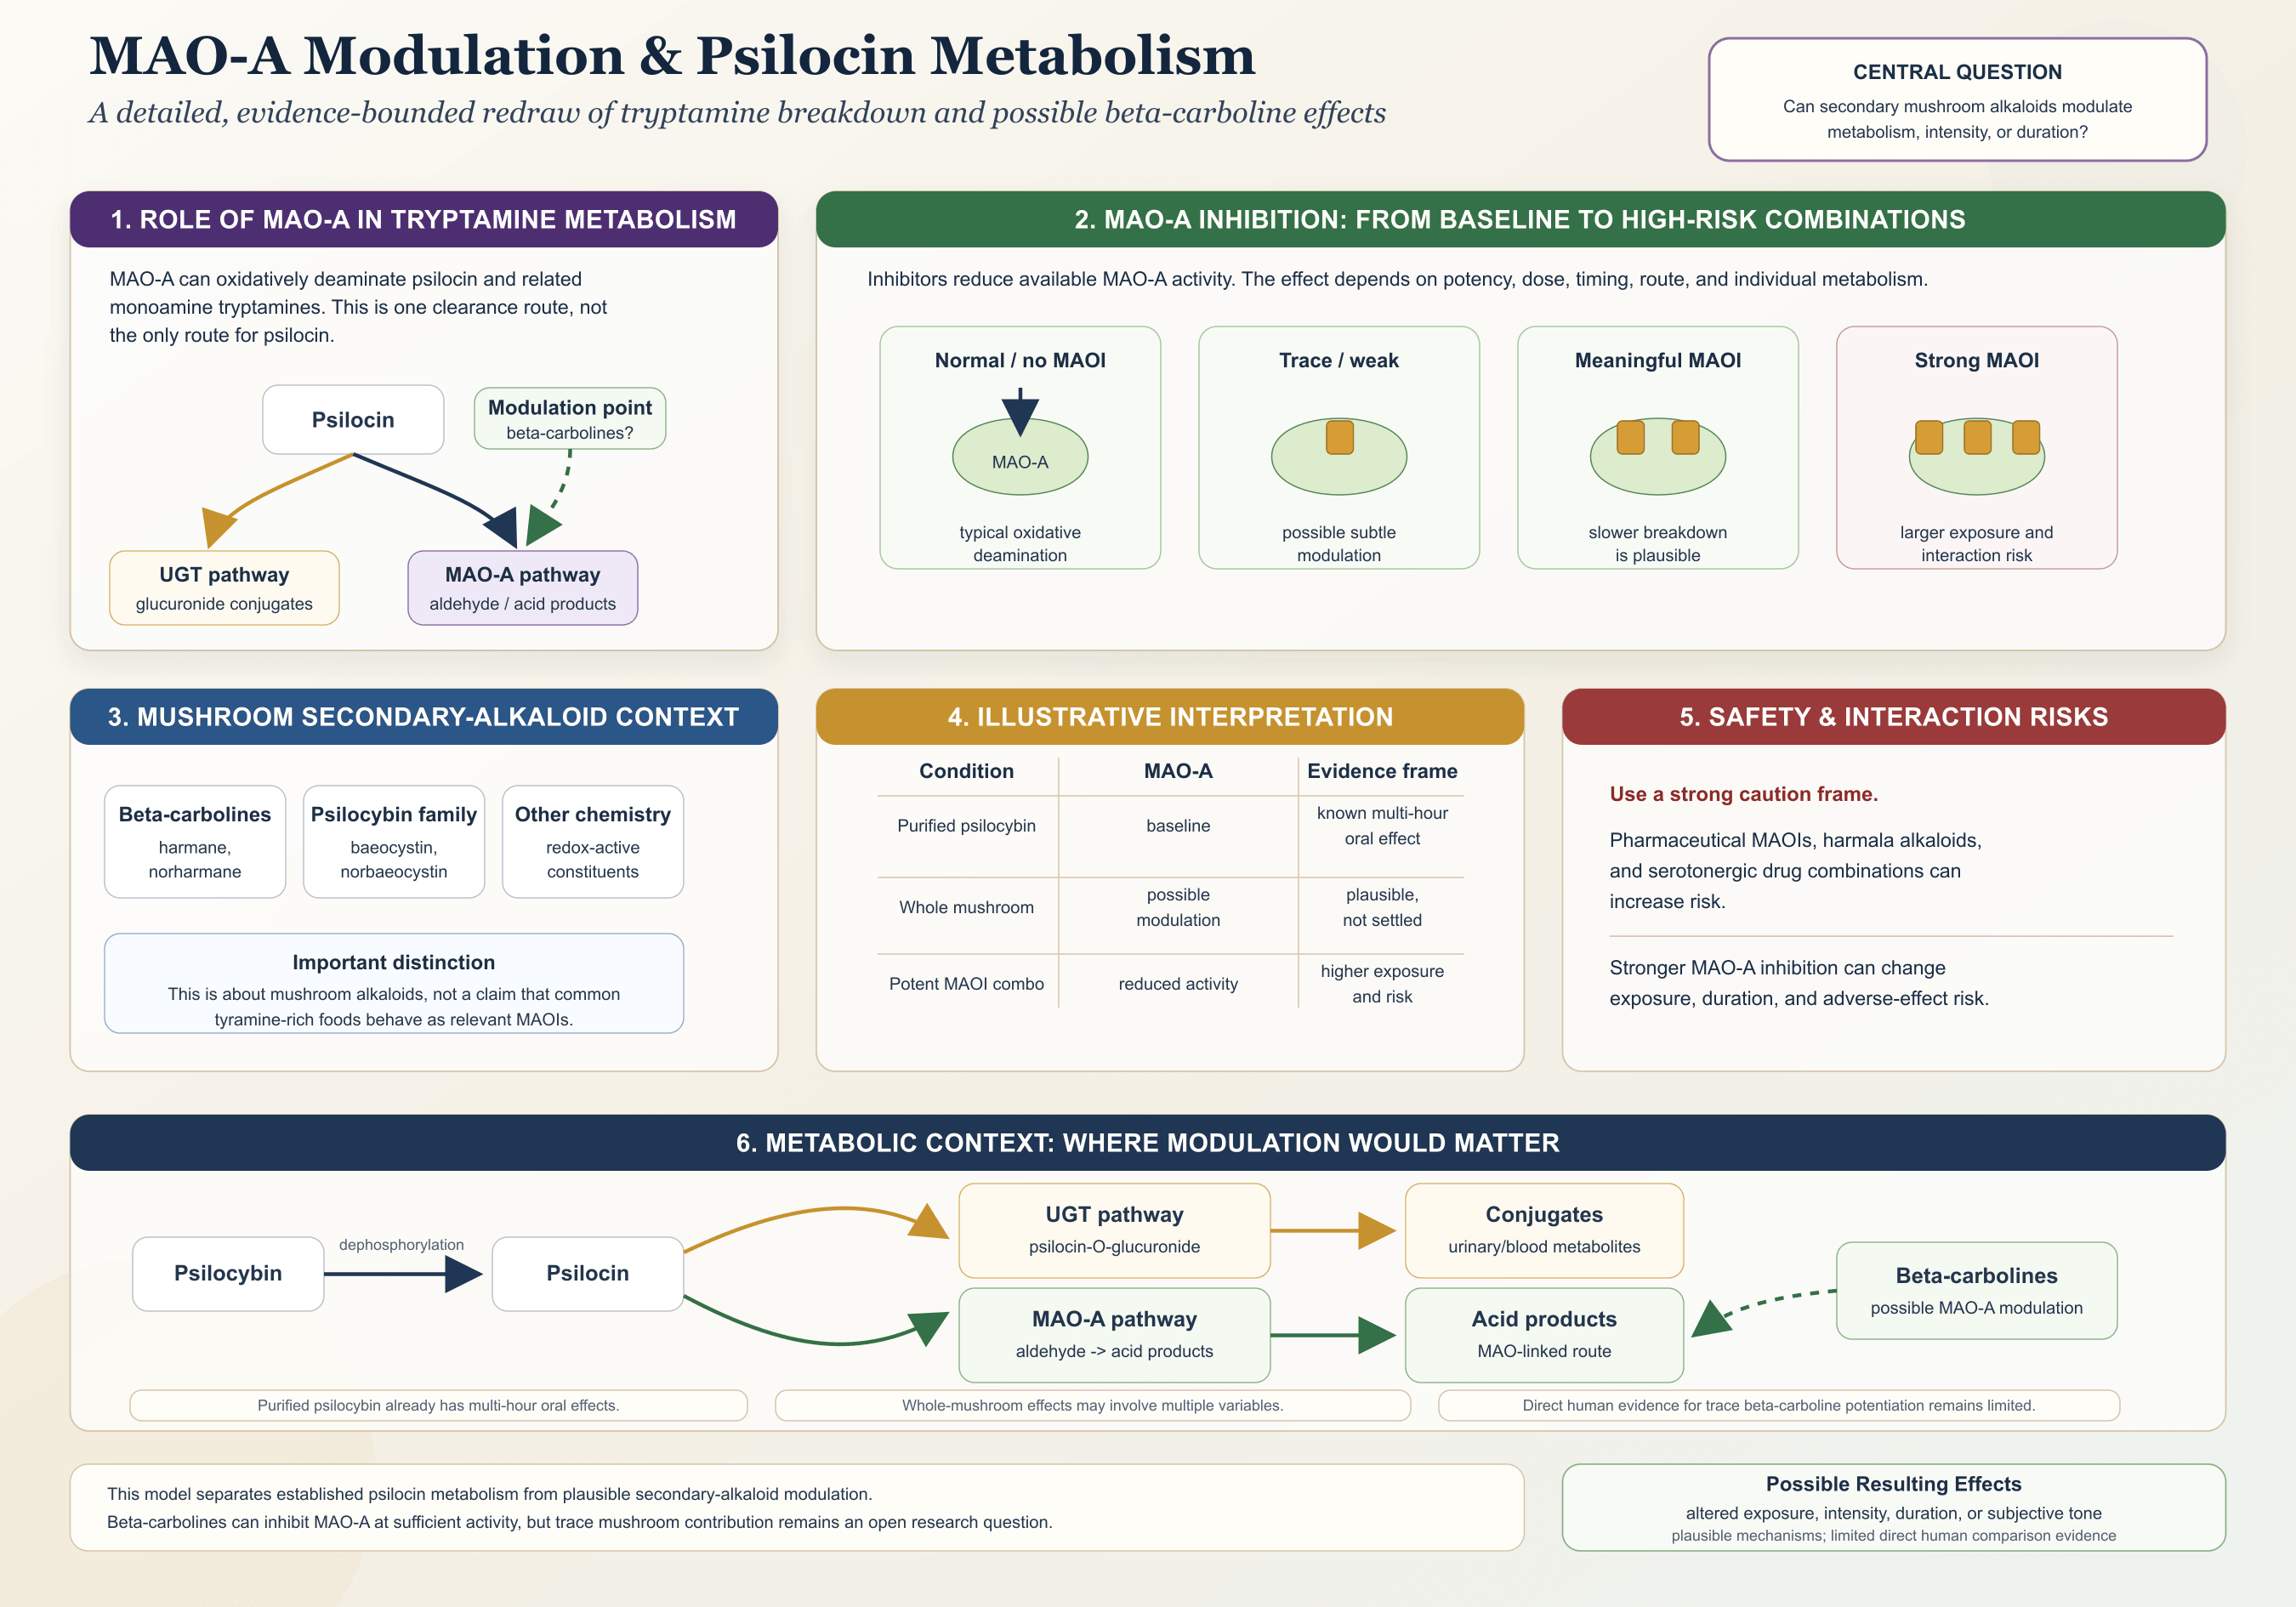
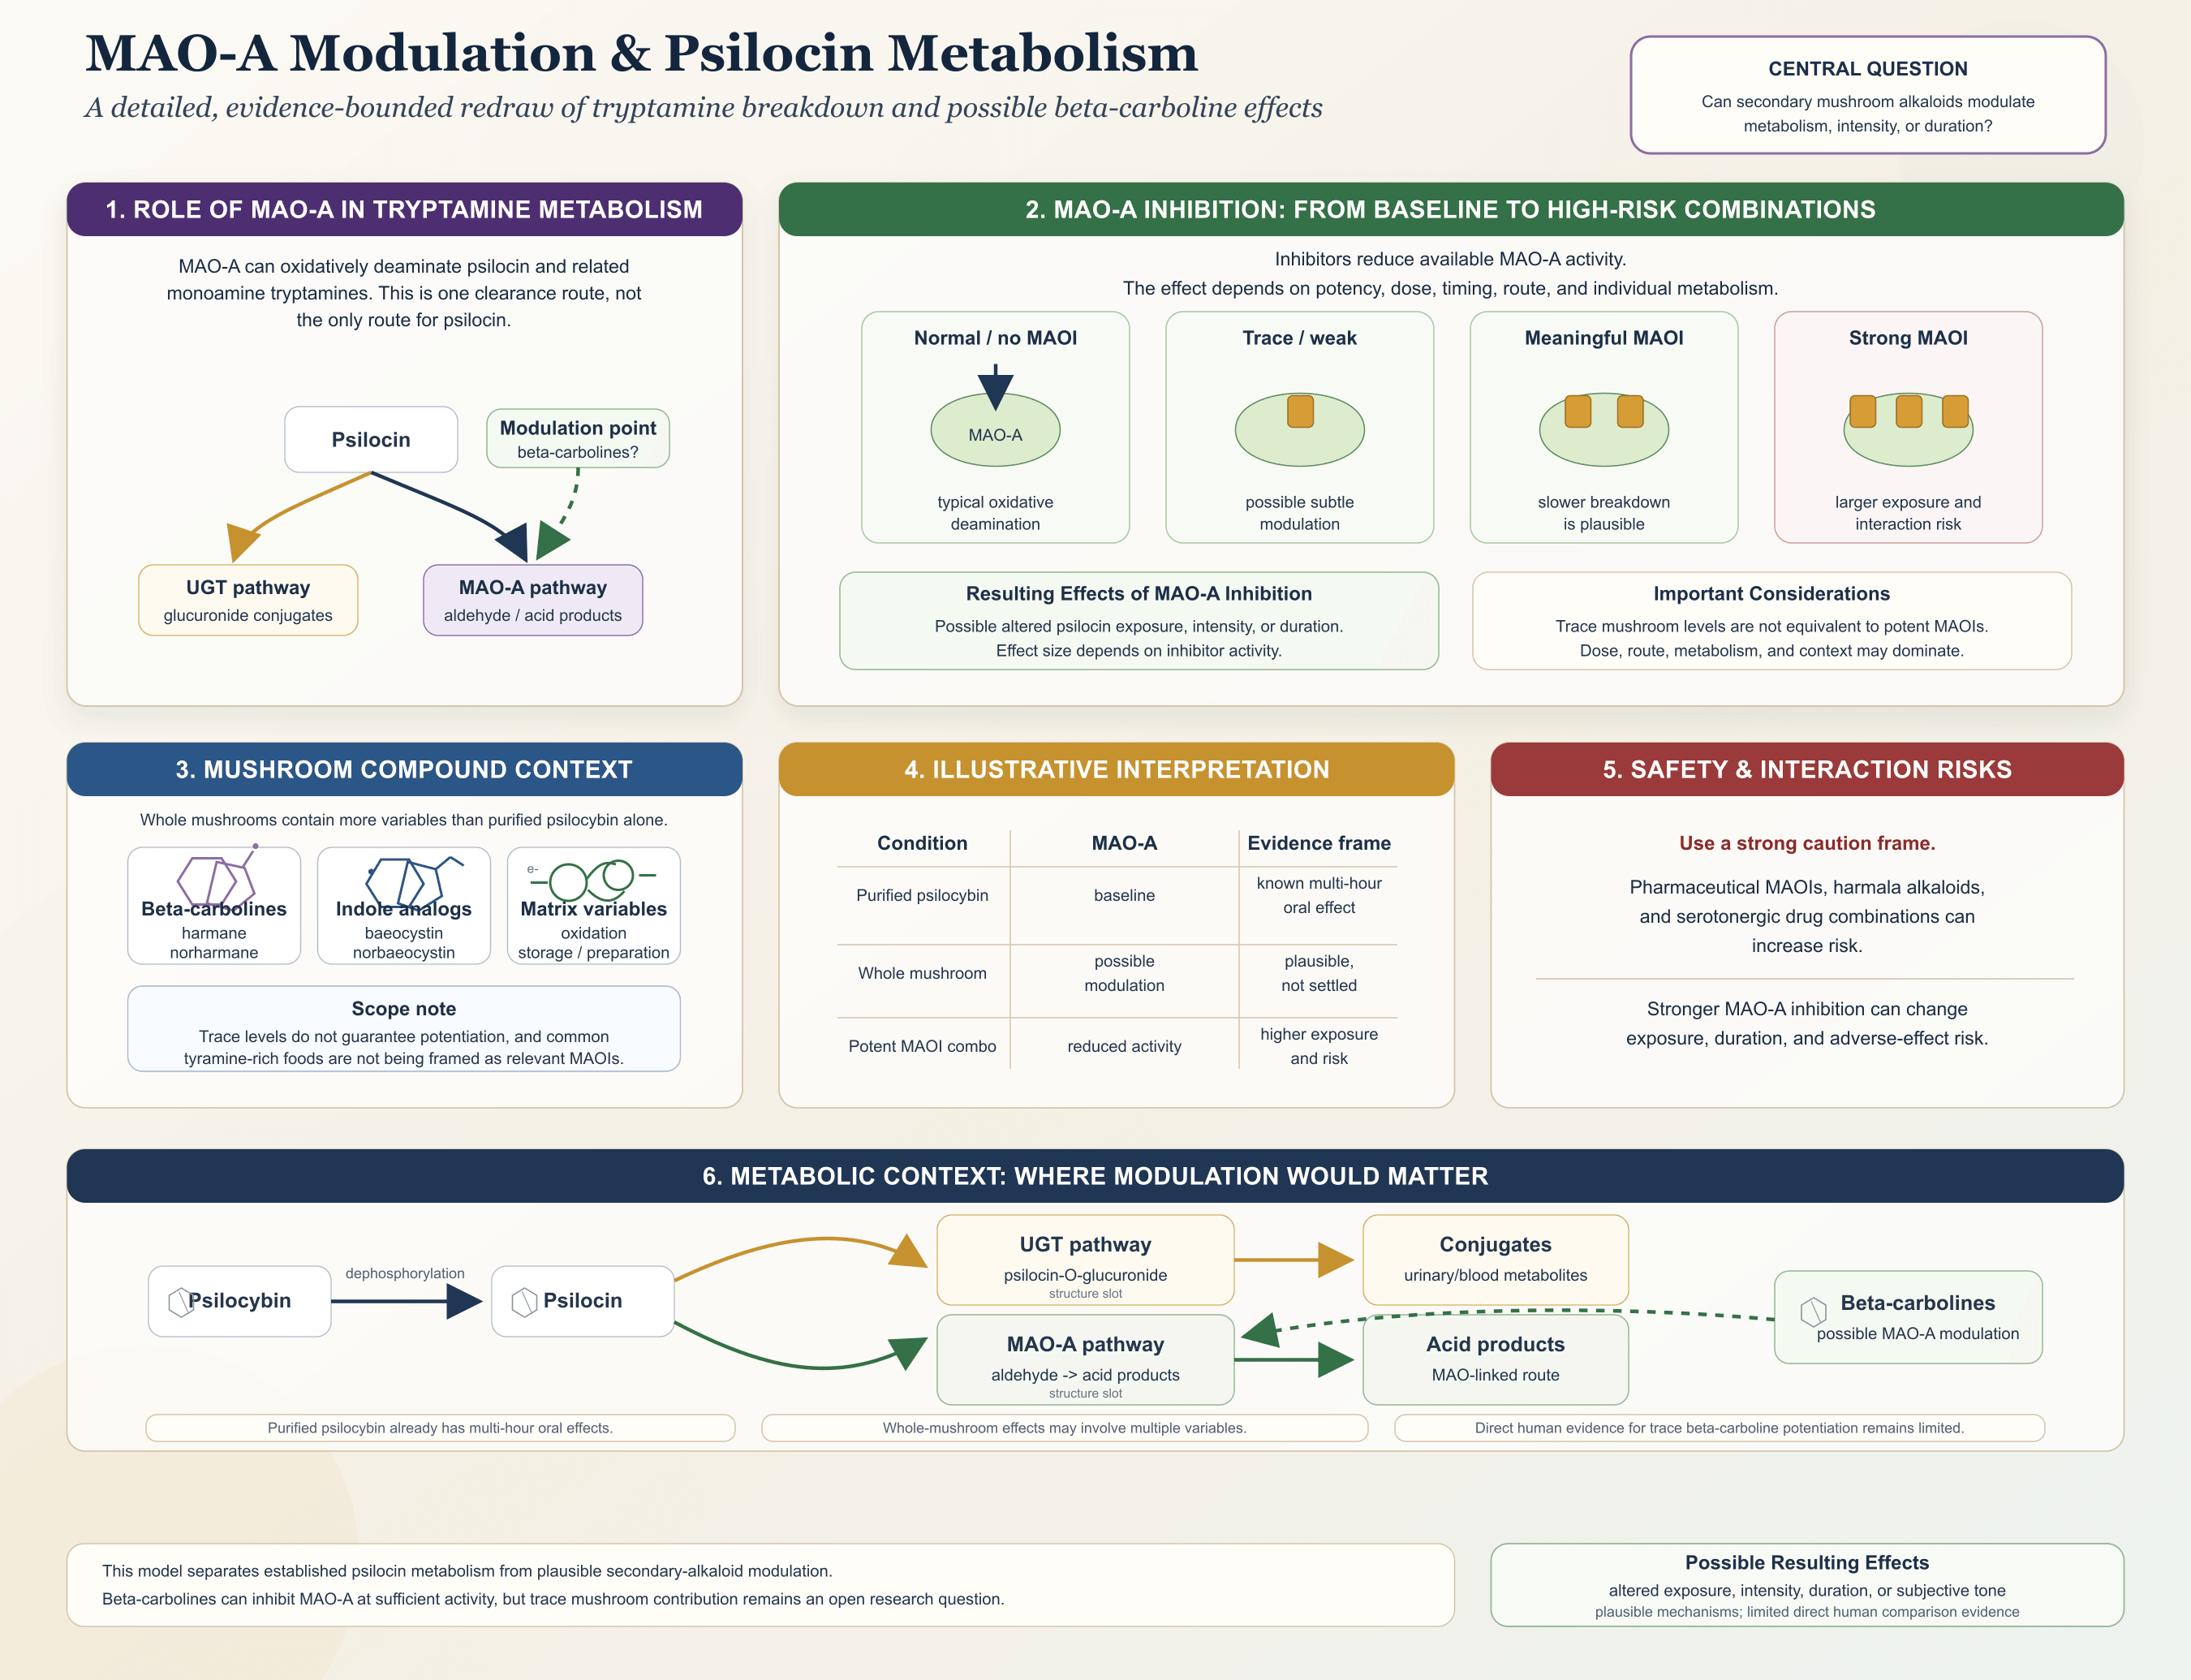
Add verified chemical model legend to MAO metabolism section

Changed region(s): [[0.0311, 0.0, 0.9956, 0.9677]]

diff --git a/styles.css b/styles.css
@@ -115,6 +115,24 @@ summary {
   border-radius: 12px;
 }
 
+.pathway2 {
+  margin: 28px 0;
+  text-align: center;
+}
+
+.pathway2 + .pathway2 {
+  margin-top: 36px;
+}
+
+.chemical-legend {
+  margin-bottom: 42px;
+}
+
+.chemical-legend img {
+  max-width: 940px;
+  box-shadow: var(--shadow-soft);
+}
+
 footer {
   background: var(--nav-bg);
   color: #ffffff;

diff --git a/index.html b/index.html
@@ -157,6 +157,10 @@ human neuroprotection remains an active area of research.
 <img src="metabolism-final.png" alt="Infographic showing psilocin metabolism, MAO-A modulation, beta-carbolines, and safety considerations">
 </div>
 
+<div class="pathway2 chemical-legend">
+<img src="verified-chemical-model-legend.png" alt="Verified PubChem 2D chemical structure legend for psilocybin, psilocin, baeocystin, norbaeocystin, harmane, norharmane, and 4-HIAA">
+</div>
+
 <div class="reference">
 <strong>Felix Blei, Sebastian D&ouml;rner, Janis Fricke, Florian Baldeweg, Felix Trottmann, Anna Komor, Florian Meyer, Christian Hertweck, Dirk Hoffmeister (2020)</strong><br>
 Felix Blei, Sebastian D&ouml;rner, Janis Fricke, Florian Baldeweg, Felix Trottmann, Anna Komor, Florian Meyer, Christian Hertweck, Dirk Hoffmeister.